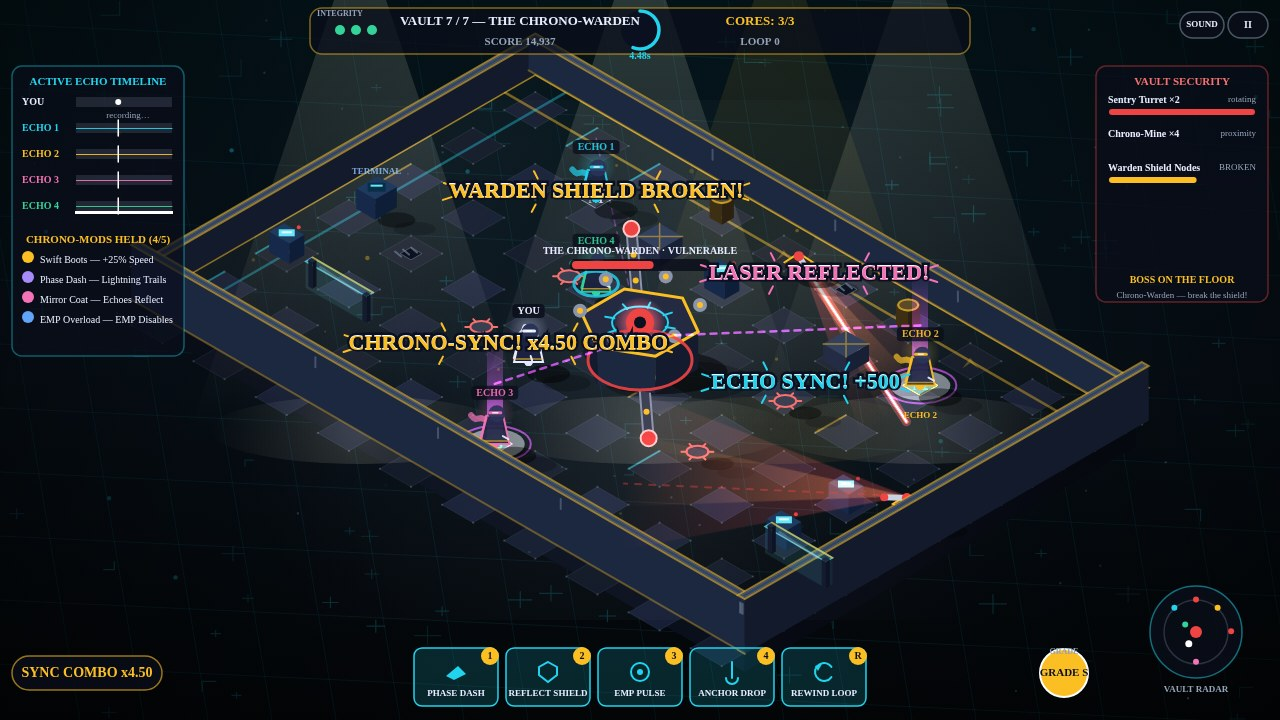
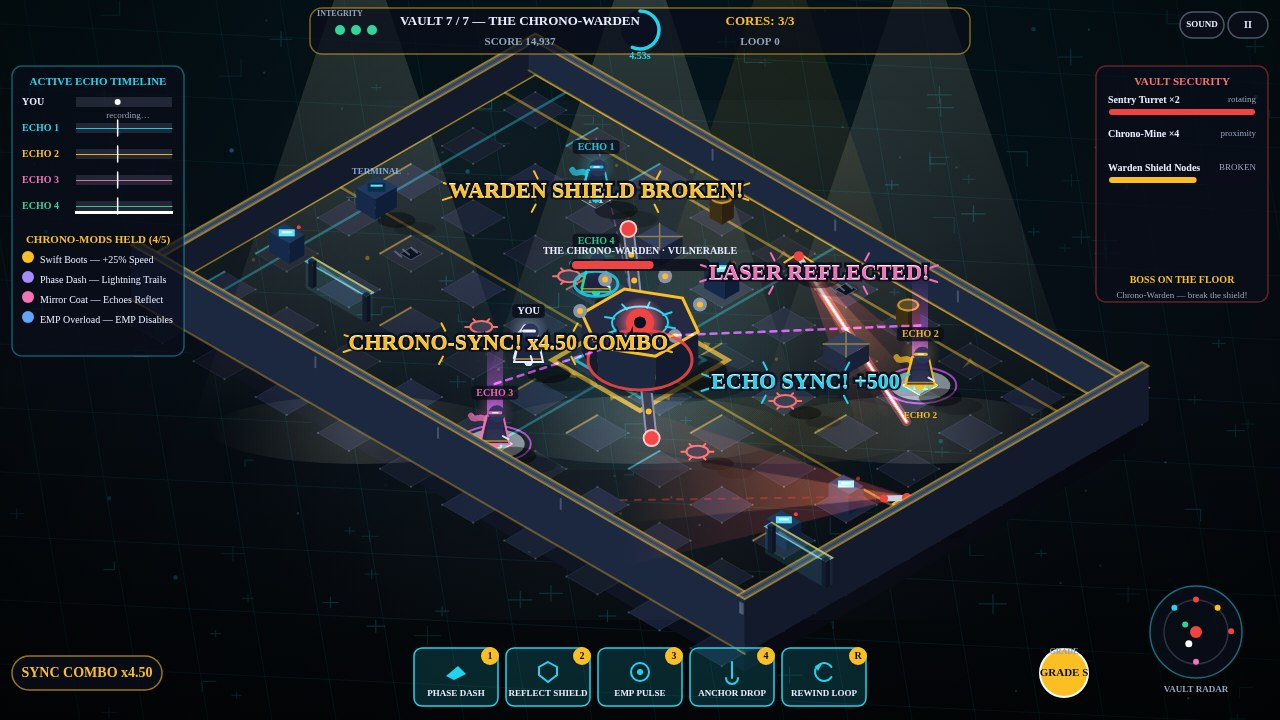
ECHO VAULT: follow-up visual pass — denser title middle, draft & victory show the arena

diff --git a/game/src/render.js b/game/src/render.js
@@ -132,9 +132,10 @@ function drawFloorStatic(ctx) {
       for (const [rx, ry] of [[0, -hh], [hw, 0], [0, hh], [-hw, 0]]) {
         ctx.fillRect(p.x + rx - 1, p.y + ry - 1, 2, 2);
       }
-      // Edge-lit panel: one glowing edge per chosen tile.
+      // Edge-lit panel: one glowing edge per chosen tile — more of them in
+      // the middle band, so the diorama's center reads as lit, not empty.
       const lit = hash01(tx * 13.7 + ty * 7.3 + 0.5);
-      if (lit < 0.14) {
+      if (lit < (ty >= 2 && ty <= 4 ? 0.34 : 0.14)) {
         ctx.strokeStyle = lit < 0.07 ? 'rgba(34,211,238,0.5)' : 'rgba(251,191,36,0.45)';
         ctx.lineWidth = 2;
         ctx.beginPath();
@@ -177,6 +178,69 @@ function drawFloorStatic(ctx) {
   ctx.moveTo(a.x, a.y); ctx.lineTo(b.x, b.y);
   ctx.stroke();
   ctx.restore();
+  // Crossing conduits through the middle: a gold spine along logical y=355
+  // and a cyan spine along logical x=640, meeting at the central seal.
+  ctx.save();
+  ctx.strokeStyle = 'rgba(251,191,36,0.4)';
+  ctx.lineWidth = 2.5;
+  ctx.beginPath();
+  let m1 = iso(ARENA.x, ARENA.y + ARENA.h / 2);
+  let m2 = iso(ARENA.x + ARENA.w, ARENA.y + ARENA.h / 2);
+  ctx.moveTo(m1.x, m1.y); ctx.lineTo(m2.x, m2.y);
+  ctx.stroke();
+  ctx.strokeStyle = 'rgba(34,211,238,0.34)';
+  ctx.beginPath();
+  m1 = iso(ARENA.x + ARENA.w / 2, ARENA.y);
+  m2 = iso(ARENA.x + ARENA.w / 2, ARENA.y + ARENA.h);
+  ctx.moveTo(m1.x, m1.y); ctx.lineTo(m2.x, m2.y);
+  ctx.stroke();
+  ctx.restore();
+  // Central vault seal: concentric glowing rings + hazard chevrons on the
+  // floor plane, marking the heart of the vault. Flat floor art (painted
+  // into the cache), so it can never cover a plate, core, or character.
+  const sc = iso(ARENA.x + ARENA.w / 2, ARENA.y + ARENA.h / 2);
+  const sg = ctx.createRadialGradient(sc.x, sc.y, 10, sc.x, sc.y, 170);
+  sg.addColorStop(0, 'rgba(34,211,238,0.10)');
+  sg.addColorStop(1, 'rgba(34,211,238,0)');
+  ctx.fillStyle = sg;
+  ctx.fillRect(sc.x - 170, sc.y - 110, 340, 220);
+  const sealPath = (r) => {
+    ctx.beginPath();
+    ctx.moveTo(sc.x, sc.y - r * 0.5 * ISO_S);
+    ctx.lineTo(sc.x + r * 0.866 * ISO_S, sc.y);
+    ctx.lineTo(sc.x, sc.y + r * 0.5 * ISO_S);
+    ctx.lineTo(sc.x - r * 0.866 * ISO_S, sc.y);
+    ctx.closePath();
+  };
+  ctx.strokeStyle = 'rgba(251,191,36,0.7)';
+  ctx.lineWidth = 4.5;
+  sealPath(130); ctx.stroke();
+  ctx.strokeStyle = 'rgba(34,211,238,0.7)';
+  ctx.lineWidth = 3;
+  sealPath(96); ctx.stroke();
+  ctx.strokeStyle = 'rgba(251,191,36,0.4)';
+  ctx.lineWidth = 2;
+  sealPath(64); ctx.stroke();
+  // Filled center emblem: a glowing cyan diamond at the seal's heart.
+  ctx.fillStyle = 'rgba(34,211,238,0.16)';
+  sealPath(40); ctx.fill();
+  ctx.strokeStyle = 'rgba(34,211,238,0.6)';
+  ctx.lineWidth = 2;
+  sealPath(40); ctx.stroke();
+  // Hazard chevrons around the seal rim.
+  ctx.fillStyle = 'rgba(251,191,36,0.4)';
+  for (let i = 0; i < 8; i++) {
+    const an = (i / 8) * Math.PI * 2 + Math.PI / 8;
+    const px = sc.x + Math.cos(an) * 113 * 0.866 * ISO_S;
+    const py = sc.y + Math.sin(an) * 113 * 0.5 * ISO_S;
+    ctx.save();
+    ctx.translate(px, py);
+    ctx.rotate(an);
+    ctx.beginPath();
+    ctx.moveTo(-6, -4); ctx.lineTo(0, 0); ctx.lineTo(-6, 4);
+    ctx.closePath(); ctx.fill();
+    ctx.restore();
+  }
   // Brass inlay rim around the chamber.
   ctx.strokeStyle = 'rgba(251,191,36,0.6)';
   ctx.lineWidth = 3;
@@ -1275,6 +1339,86 @@ function titleHeaderSprite() {
   return c;
 }
 
+// Title centerpiece (cached sprite): a glass containment column with a
+// glowing core, two low glass partitions, and floor furniture in the middle
+// of the diorama — painted once, stamped UNDER the demo echoes (in
+// drawAttract, before their paths) so it never covers an echo, a tag, or
+// the stage-1 laser. Title screen only; zero per-frame cost beyond one blit.
+let titleCenterpiece = null;
+function titleCenterpieceSprite() {
+  if (titleCenterpiece) return titleCenterpiece;
+  const c = document.createElement('canvas');
+  c.width = W; c.height = H;
+  const x = c.getContext('2d');
+  // Glass containment column at logical (640,430): extruded glass with a
+  // gold top rail and a glowing cyan core. Base screen ~(589,389), top
+  // ~y 325 — clear of the logo, the HOW TO PLAY panels (y 428+), and the
+  // stage-1 laser (ends x 569, y 448).
+  isoShadow(x, 640, 430, 22, 11, 0.4);
+  extrudeBox(x, 628, 418, 24, 24, 64,
+    'rgba(103,232,249,0.32)', 'rgba(103,232,249,0.18)', 'rgba(103,232,249,0.10)');
+  const ct1 = iso(628, 418, 64);
+  const ct2 = iso(652, 418, 64);
+  const ct3 = iso(652, 442, 64);
+  const ct4 = iso(628, 442, 64);
+  x.strokeStyle = 'rgba(251,191,36,0.6)';
+  x.lineWidth = 2;
+  x.beginPath();
+  x.moveTo(ct1.x, ct1.y); x.lineTo(ct2.x, ct2.y);
+  x.lineTo(ct3.x, ct3.y); x.lineTo(ct4.x, ct4.y);
+  x.closePath(); x.stroke();
+  // Gold base ring around the column's foot.
+  const cb1 = iso(628, 418, 0);
+  const cb2 = iso(652, 418, 0);
+  const cb3 = iso(652, 442, 0);
+  const cb4 = iso(628, 442, 0);
+  x.strokeStyle = 'rgba(251,191,36,0.55)';
+  x.lineWidth = 2.5;
+  x.beginPath();
+  x.moveTo(cb1.x, cb1.y); x.lineTo(cb2.x, cb2.y);
+  x.lineTo(cb3.x, cb3.y); x.lineTo(cb4.x, cb4.y);
+  x.closePath(); x.stroke();
+  // Glowing core: vertical beam sprite inside the column + a glow at its top.
+  const coreTop = iso(640, 430, 64);
+  x.save();
+  x.globalCompositeOperation = 'lighter';
+  x.drawImage(vbeamSprite('34,211,238', 10, 70, 0.8), coreTop.x - 5, coreTop.y - 70);
+  drawGlow(x, glowSprite('#22d3ee', { a0: 0.7 }), coreTop.x, coreTop.y - 6, 26);
+  x.restore();
+  // Low glass partitions across the middle (same style as stage glass).
+  for (const [gx, gy, gw] of [[400, 230, 160], [720, 180, 160]]) {
+    extrudeBox(x, gx, gy, gw, 10, 30,
+      'rgba(103,232,249,0.20)', 'rgba(103,232,249,0.10)', 'rgba(103,232,249,0.06)');
+    const g1 = iso(gx, gy, 30);
+    const g2 = iso(gx + gw, gy, 30);
+    const g3 = iso(gx + gw, gy + 10, 30);
+    const g4 = iso(gx, gy + 10, 30);
+    x.strokeStyle = 'rgba(103,232,249,0.7)';
+    x.lineWidth = 1.5;
+    x.beginPath();
+    x.moveTo(g1.x, g1.y); x.lineTo(g2.x, g2.y);
+    x.lineTo(g3.x, g3.y); x.lineTo(g4.x, g4.y);
+    x.closePath(); x.stroke();
+    x.strokeStyle = 'rgba(251,191,36,0.55)';
+    x.lineWidth = 2;
+    x.beginPath(); x.moveTo(g1.x, g1.y); x.lineTo(g2.x, g2.y); x.stroke();
+    x.strokeStyle = 'rgba(255,255,255,0.18)';
+    x.lineWidth = 3;
+    x.beginPath();
+    x.moveTo(g1.x + 8, g1.y + 10); x.lineTo(g3.x - 8, g3.y - 4);
+    x.stroke();
+  }
+  // Floor furniture in the middle: a crate and a barrel (visual only).
+  drawProp(x, { x: 480, y: 480, kind: 'crate', seed: 0.3 }, 0);
+  drawProp(x, { x: 820, y: 480, kind: 'barrel', seed: 0.4 }, 0);
+  titleCenterpiece = c;
+  return c;
+}
+
+export function drawTitleCenterpiece(ctx) {
+  ctx.drawImage(titleCenterpieceSprite(), 0, 0);
+}
+
 export function drawTitle(ctx, G, time) {
   ctx.save();
   ctx.drawImage(titleHeaderSprite(), 0, 0);
@@ -1391,14 +1535,16 @@ function draftHeaderSprite(stage) {
 export function drawDraft(ctx, G) {
   const st = G.state;
   ctx.save();
-  ctx.fillStyle = 'rgba(5,7,13,0.72)';
+  // Light scrim (was 0.72): the arena must stay visible behind the cards —
+  // the diorama, not a black void, is what the player is standing in.
+  ctx.fillStyle = 'rgba(5,7,13,0.20)';
   ctx.fillRect(0, 0, W, H);
   ctx.drawImage(draftHeaderSprite(st.stage), 0, 0);
   ctx.textAlign = 'center';
   ctx.textBaseline = 'middle';
   st.draft.forEach((m, i) => {
     const x = 640 - 3 * 140 + i * 290 + 15, y = 168, w = 260, h = 330;
-    ctx.fillStyle = 'rgba(10,14,26,0.92)';
+    ctx.fillStyle = 'rgba(10,14,26,0.68)';
     ctx.beginPath();
     ctx.roundRect(x, y, w, h, 12);
     ctx.fill();
@@ -1508,10 +1654,11 @@ function victoryHeaderSprite() {
 export function drawVictory(ctx, G) {
   const st = G.state;
   ctx.save();
-  ctx.fillStyle = 'rgba(5,7,13,0.6)';
+  // Light scrim (was 0.6): the denser diorama must show around the modal.
+  ctx.fillStyle = 'rgba(5,7,13,0.15)';
   ctx.fillRect(0, 0, W, H);
   const bx = 640 - 290, by = 66, bw = 580, bh = 500;
-  ctx.fillStyle = 'rgba(10,14,26,0.94)';
+  ctx.fillStyle = 'rgba(10,14,26,0.72)';
   ctx.beginPath();
   ctx.roundRect(bx, by, bw, bh, 14);
   ctx.fill();

diff --git a/game/src/main.js b/game/src/main.js
@@ -557,6 +557,9 @@ class Game {
   }
 
   drawAttract(ctx) {
+    // The title centerpiece (glass column, partitions, furniture) sits
+    // under the demo echoes, so it never covers them or their paths.
+    R.drawTitleCenterpiece(ctx);
     // The demo echoes replay on the title screen, with their dotted paths.
     for (const e of this.echoes) {
       const pts = e.futurePath(this.loopElapsed, 1.2, 0.12);
